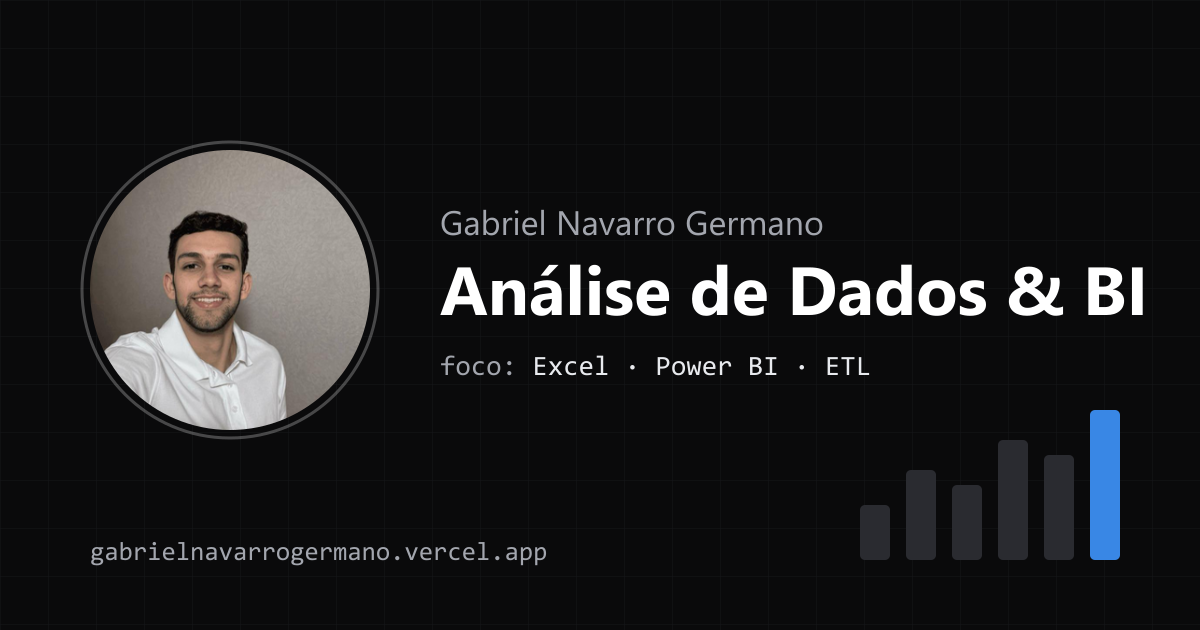
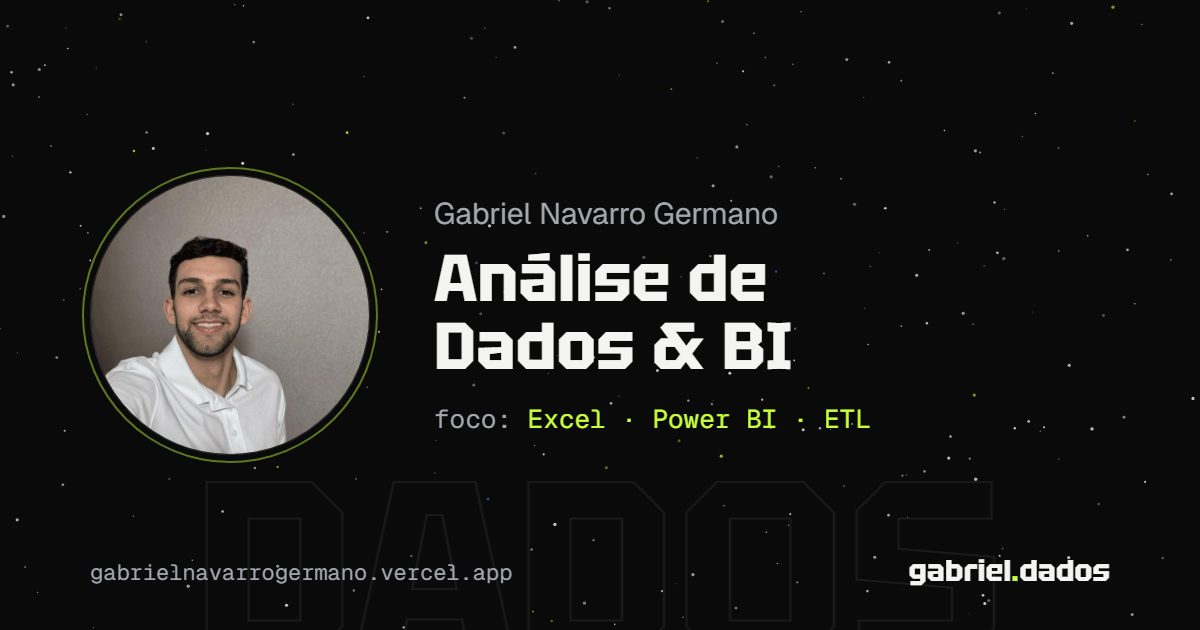
Adiciona ícone, prévia de link e analytics, e padroniza as palavras de fundo
- Ícone da aba próprio ("g." no estilo da Tektur), no lugar do logo do Astro.
- Nova imagem de prévia do link com a identidade atual.
- Web Analytics da Vercel.
- Palavras de fundo com o mesmo tamanho e o título sempre na mesma
  posição em relação a elas, no computador e no celular.
- Pilha de princípios mais compacta no celular.

diff --git a/README.md b/README.md
@@ -27,7 +27,8 @@ src/
 │   ├── NotebookSheet.astro    # Simulação animada da planilha do controle de notebooks
 │   ├── Contact.astro          # Contato
 │   ├── Footer.astro           # Rodapé
-│   └── SectionTitle.astro     # Título padrão das seções
+│   ├── SectionTitle.astro     # Título padrão das seções
+│   └── BgWord.astro           # Palavra gigante em contorno no fundo de uma seção
 ├── content/projetos/          # Estudos de caso em Markdown (um arquivo = um projeto)
 ├── content.config.ts          # Campos aceitos no cabeçalho de cada projeto
 ├── data/site.ts               # Nome, e-mail e links de contato
